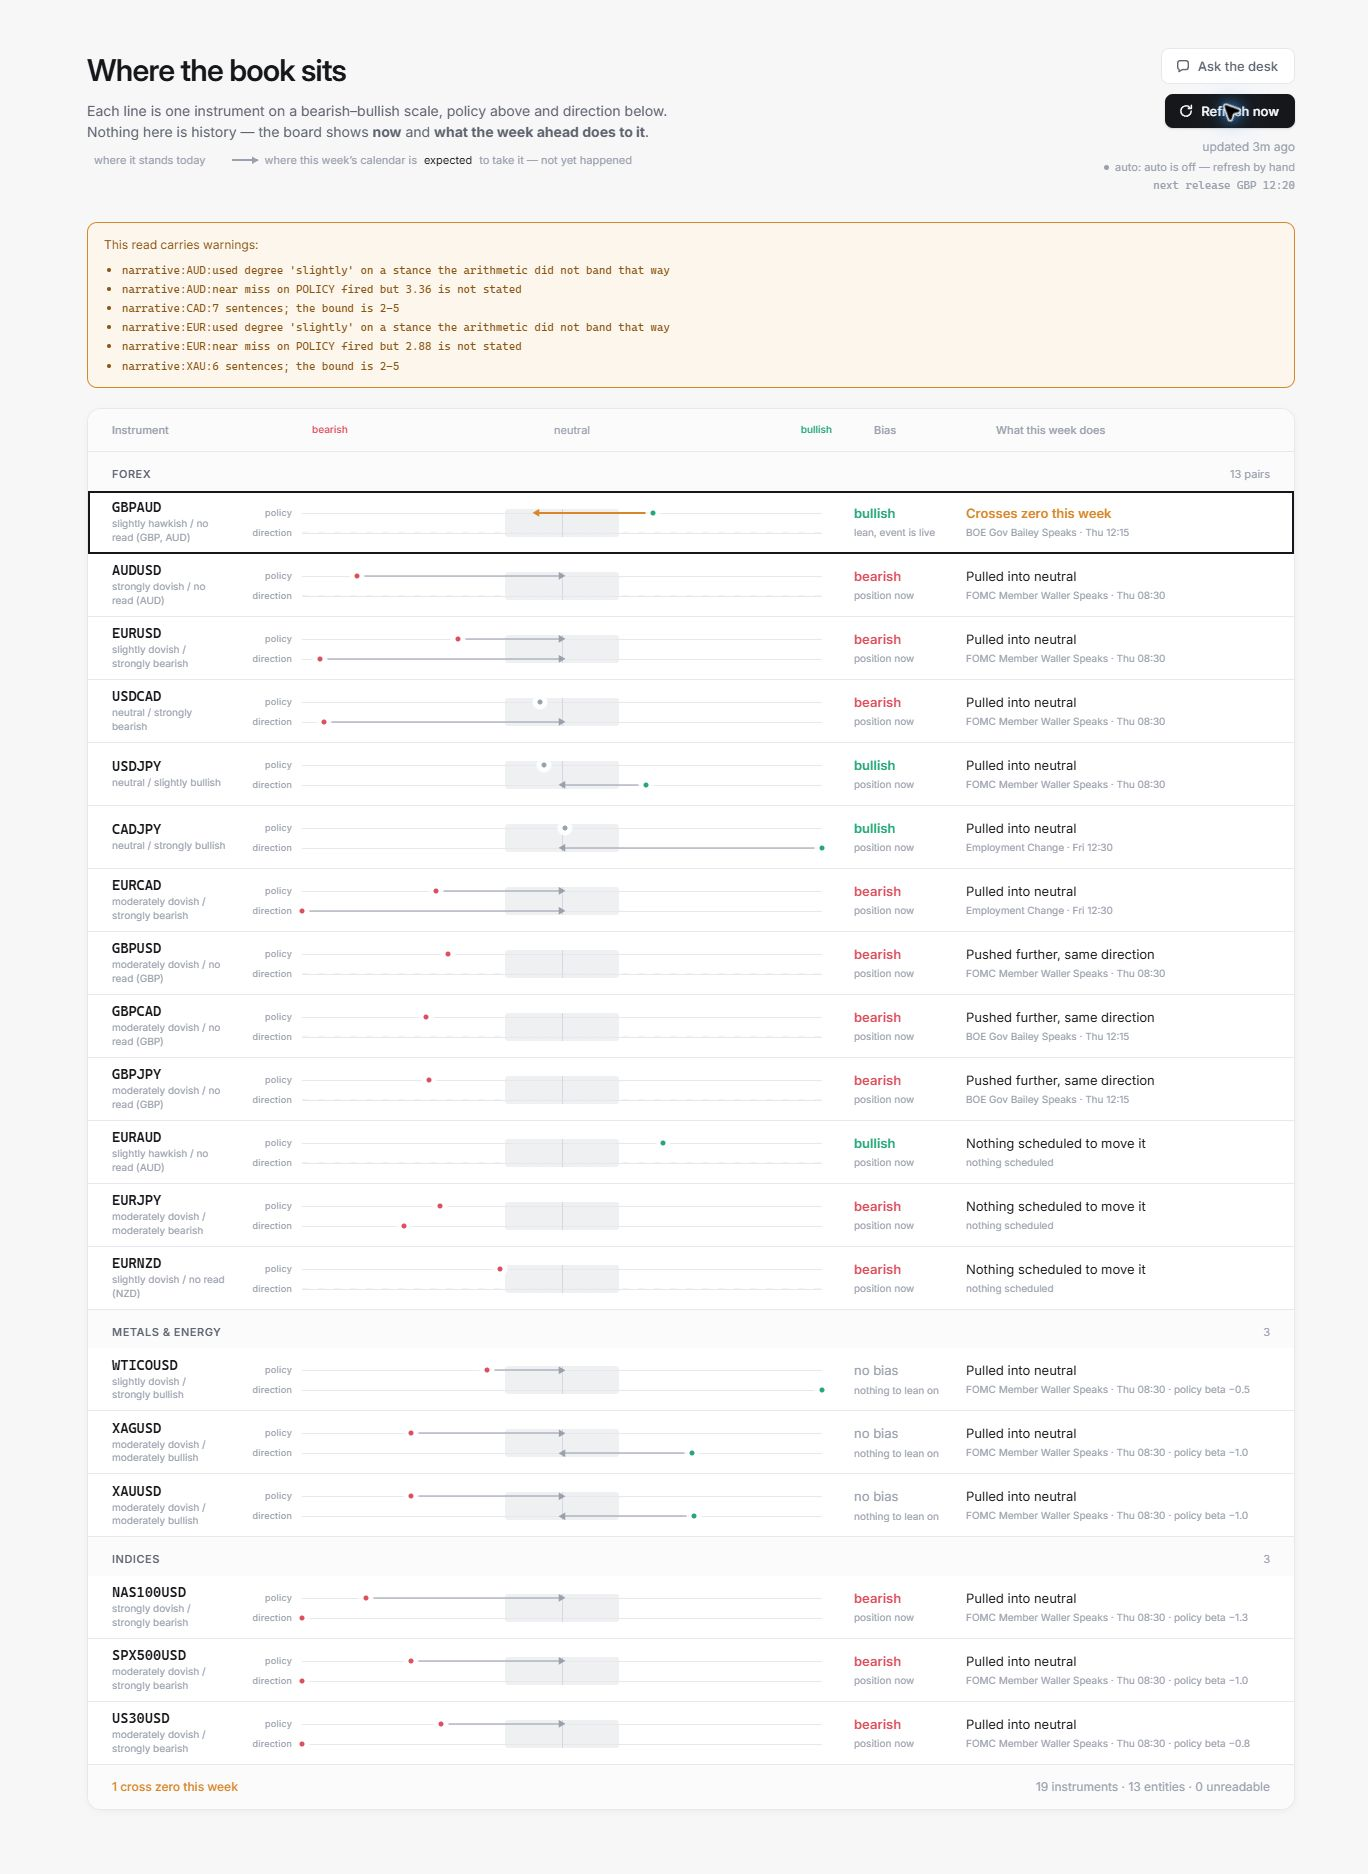
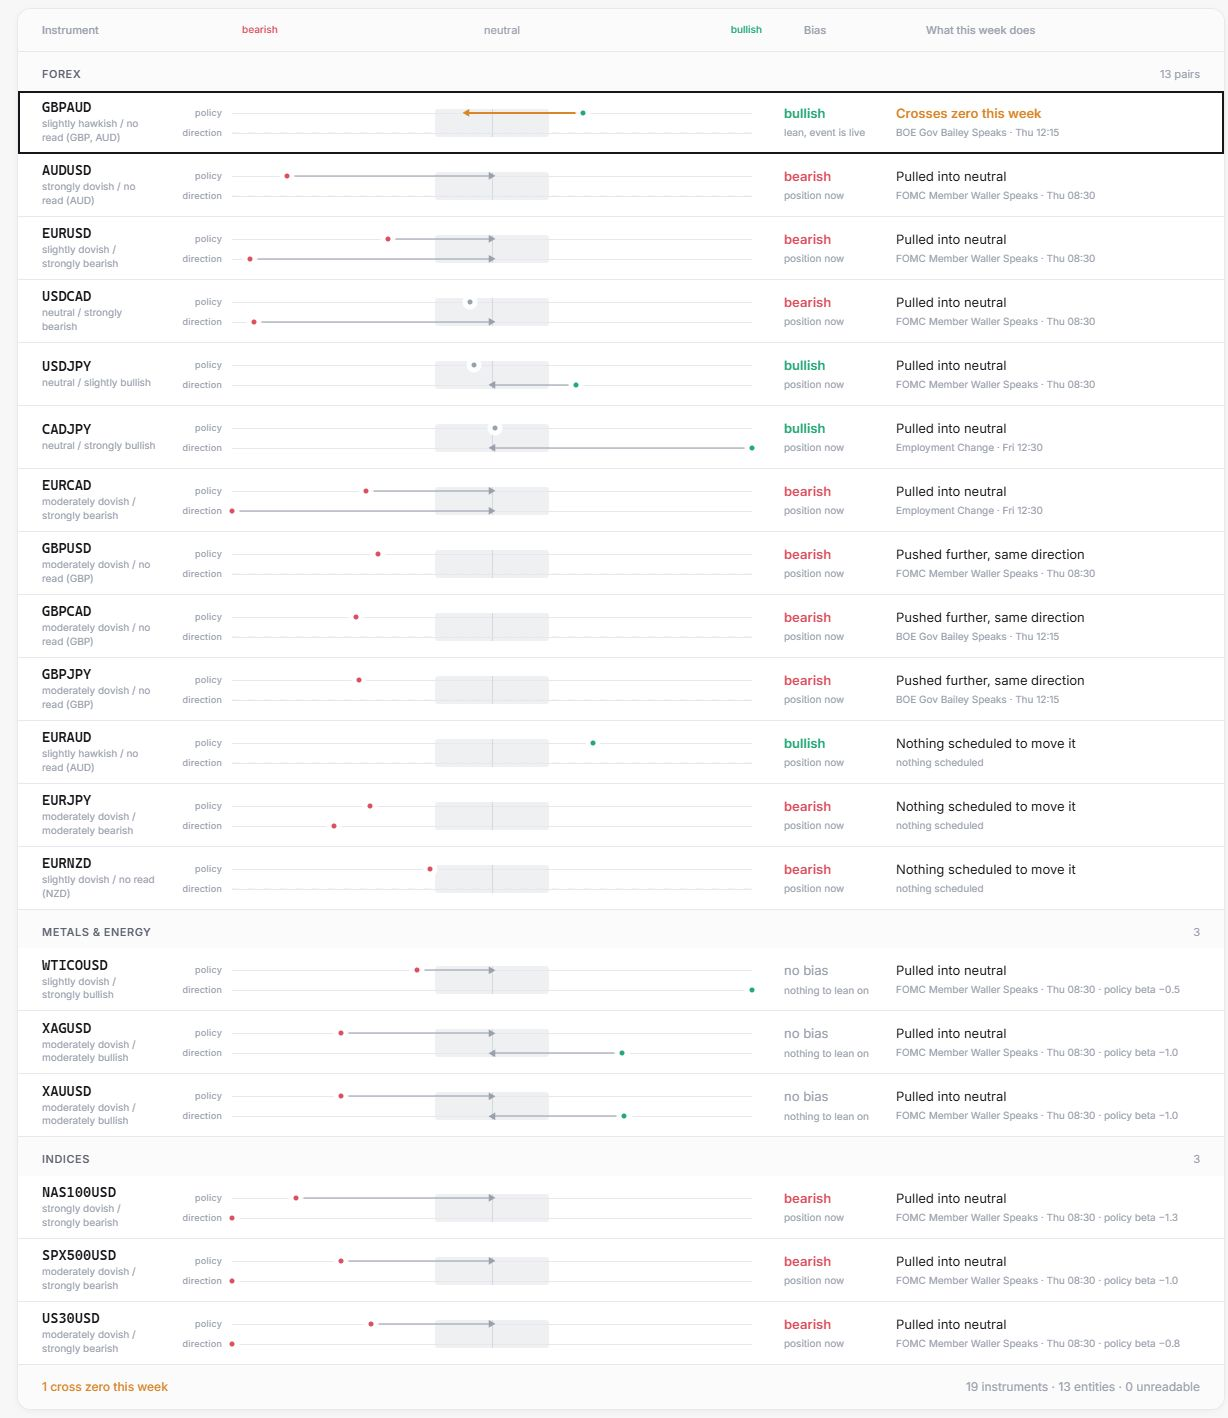
docs: focus dashboard screenshot and clarify reader setup

diff --git a/README.md b/README.md
@@ -30,15 +30,20 @@ For non-FX instruments, the policy lane represents their configured response to 
 
 ![Live research dashboard](docs/assets/dashboard.png)
 
-*Live dashboard captured after a research refresh on 8 October 2026 (UTC). Current evidence and expected calendar effects are shown separately.*
+*Instrument board from a live research refresh on 8 October 2026 (UTC). Current evidence and expected calendar effects are shown separately.*
+
+The screenshot shows live mode. The free demo below uses fictional examples; live refreshes require your own Anthropic API key and API credit.
 
 ## Try it first — no key needed
 
 You need **Python 3.11 or newer** and Git. Initial installation needs internet access. The demo then runs offline with fictional examples, uses the real scoring code, and makes no model calls.
 
+Check `python --version` first. If it shows a version below 3.11, create the environment with your newer Python instead. For example, use `py -3.13 -m venv .venv` on Windows if Python 3.13 is installed, or `python3 -m venv .venv` on macOS/Linux if `python3 --version` shows 3.11 or newer.
+
 ```bash
 git clone https://github.com/prentopoulos/fundamental-engine.git
 cd fundamental-engine
+python --version
 python -m venv .venv
 ```
 
